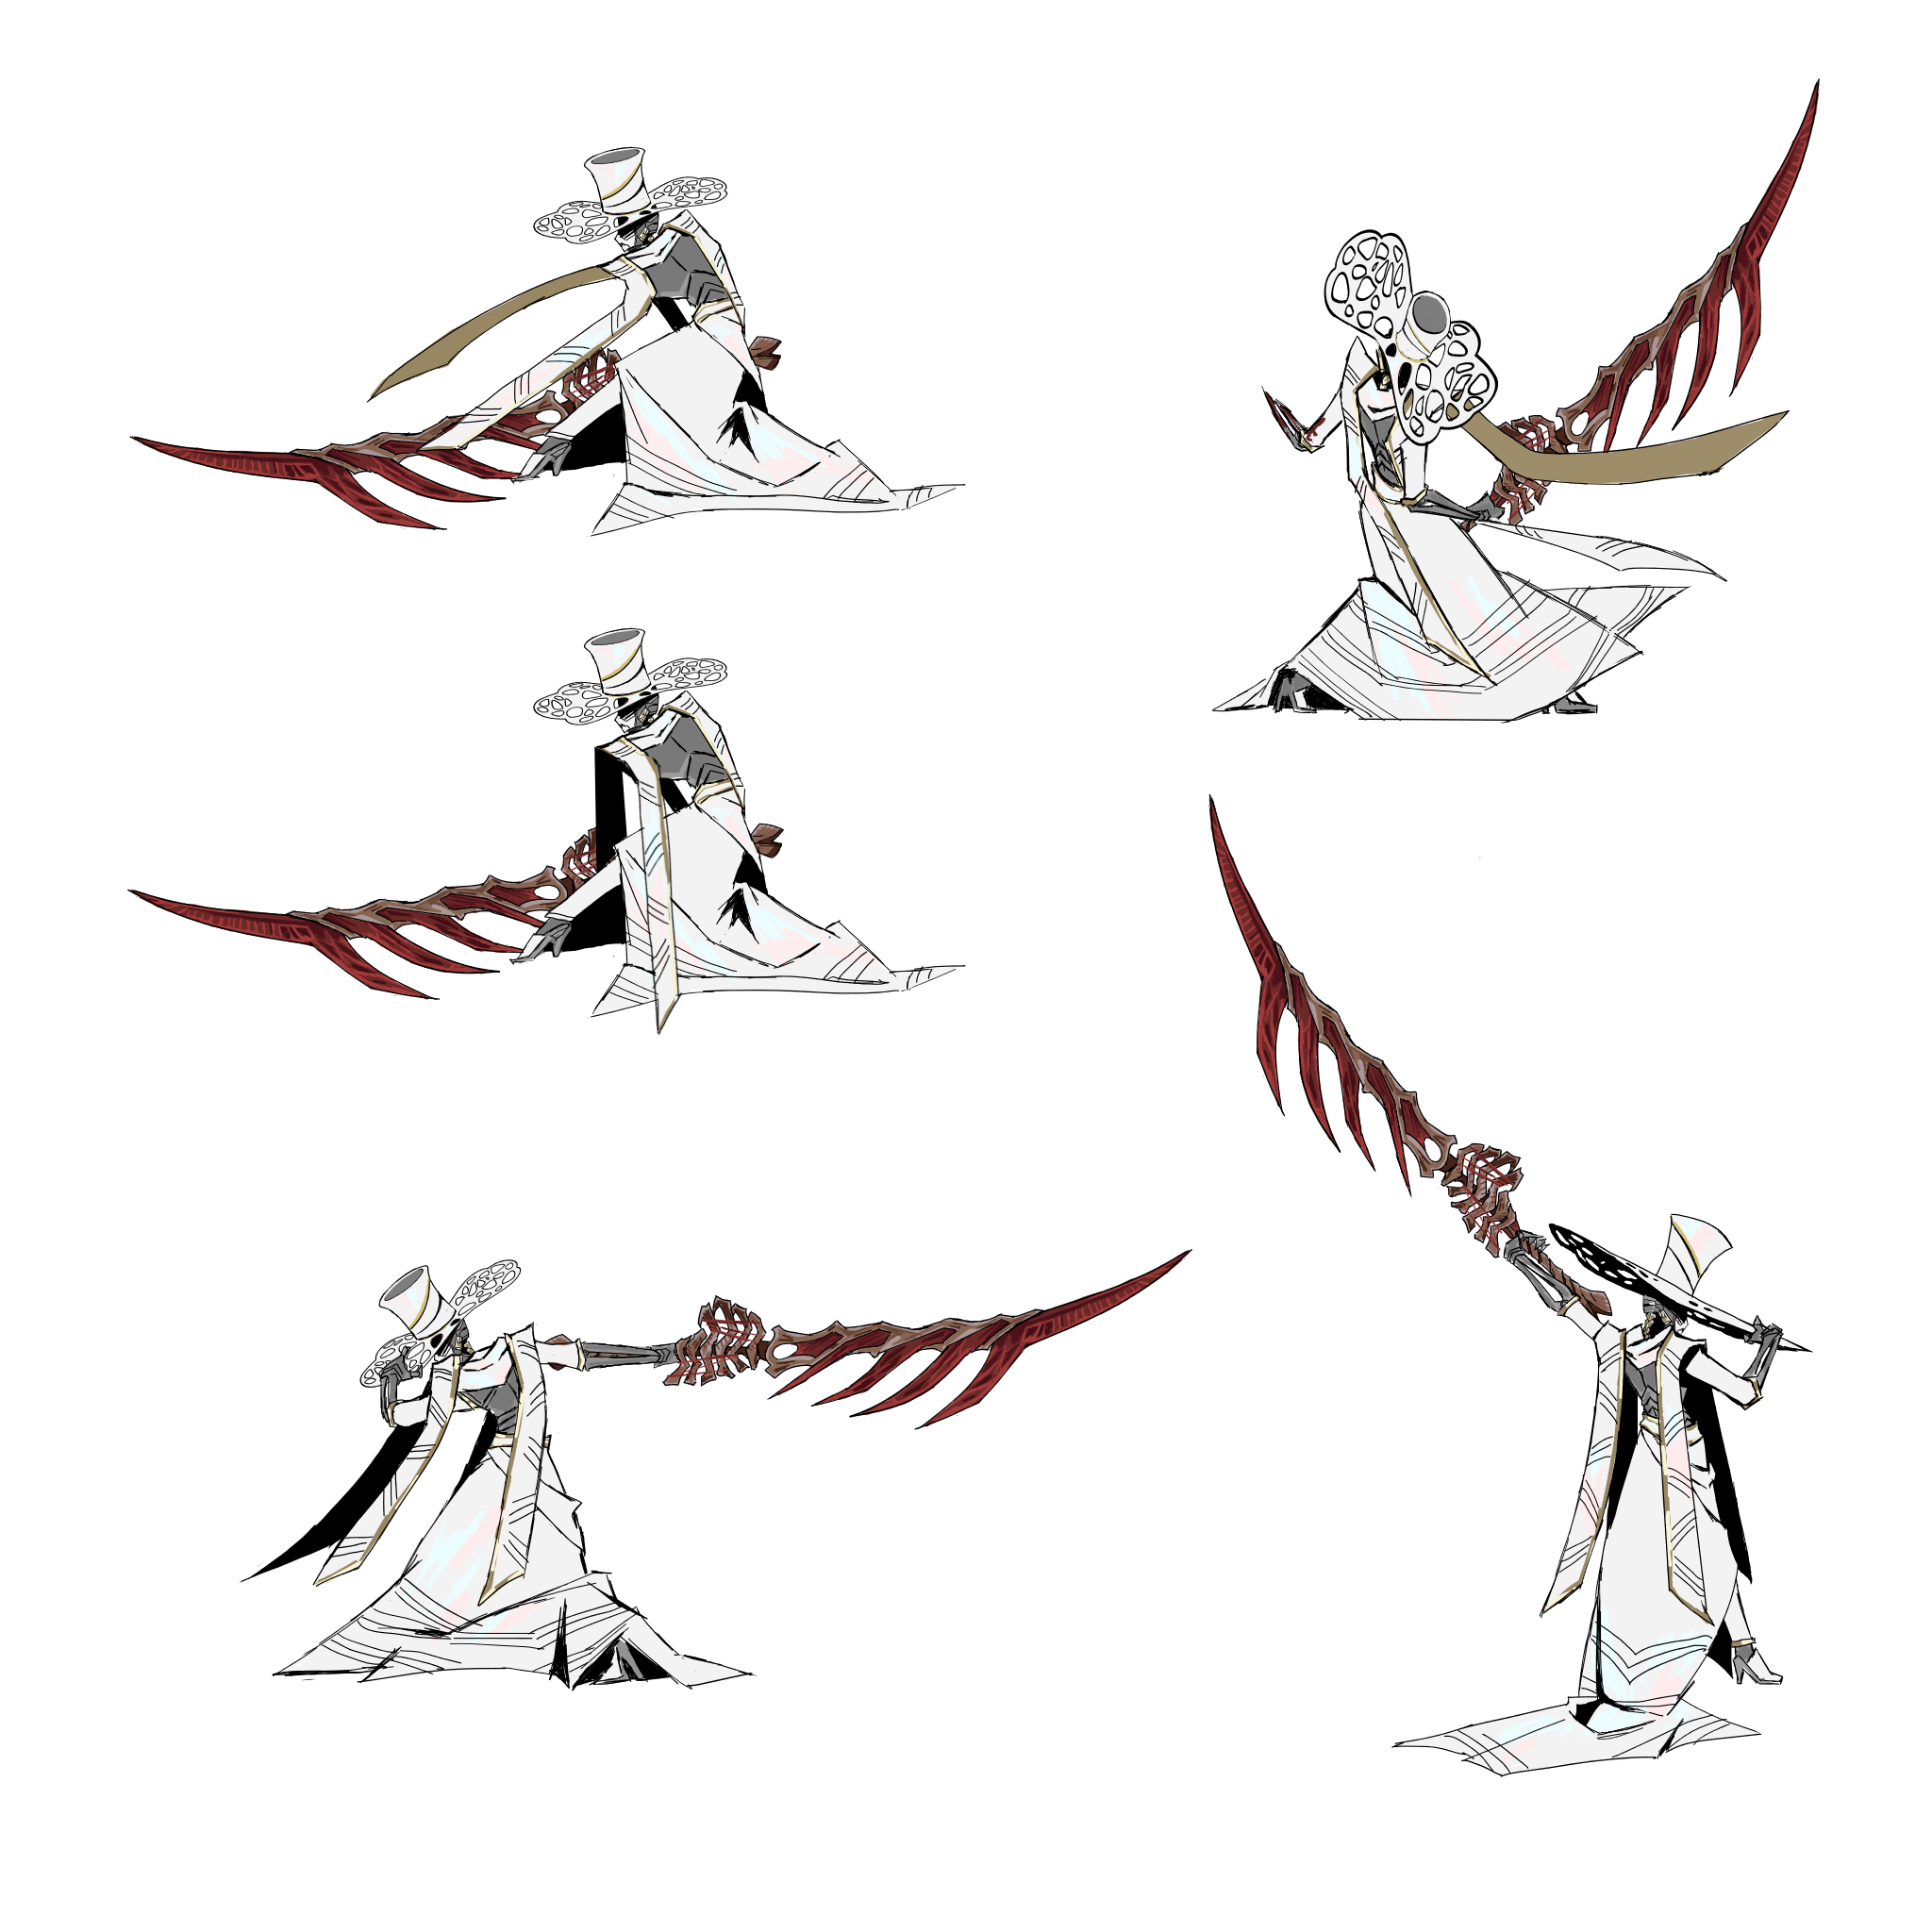
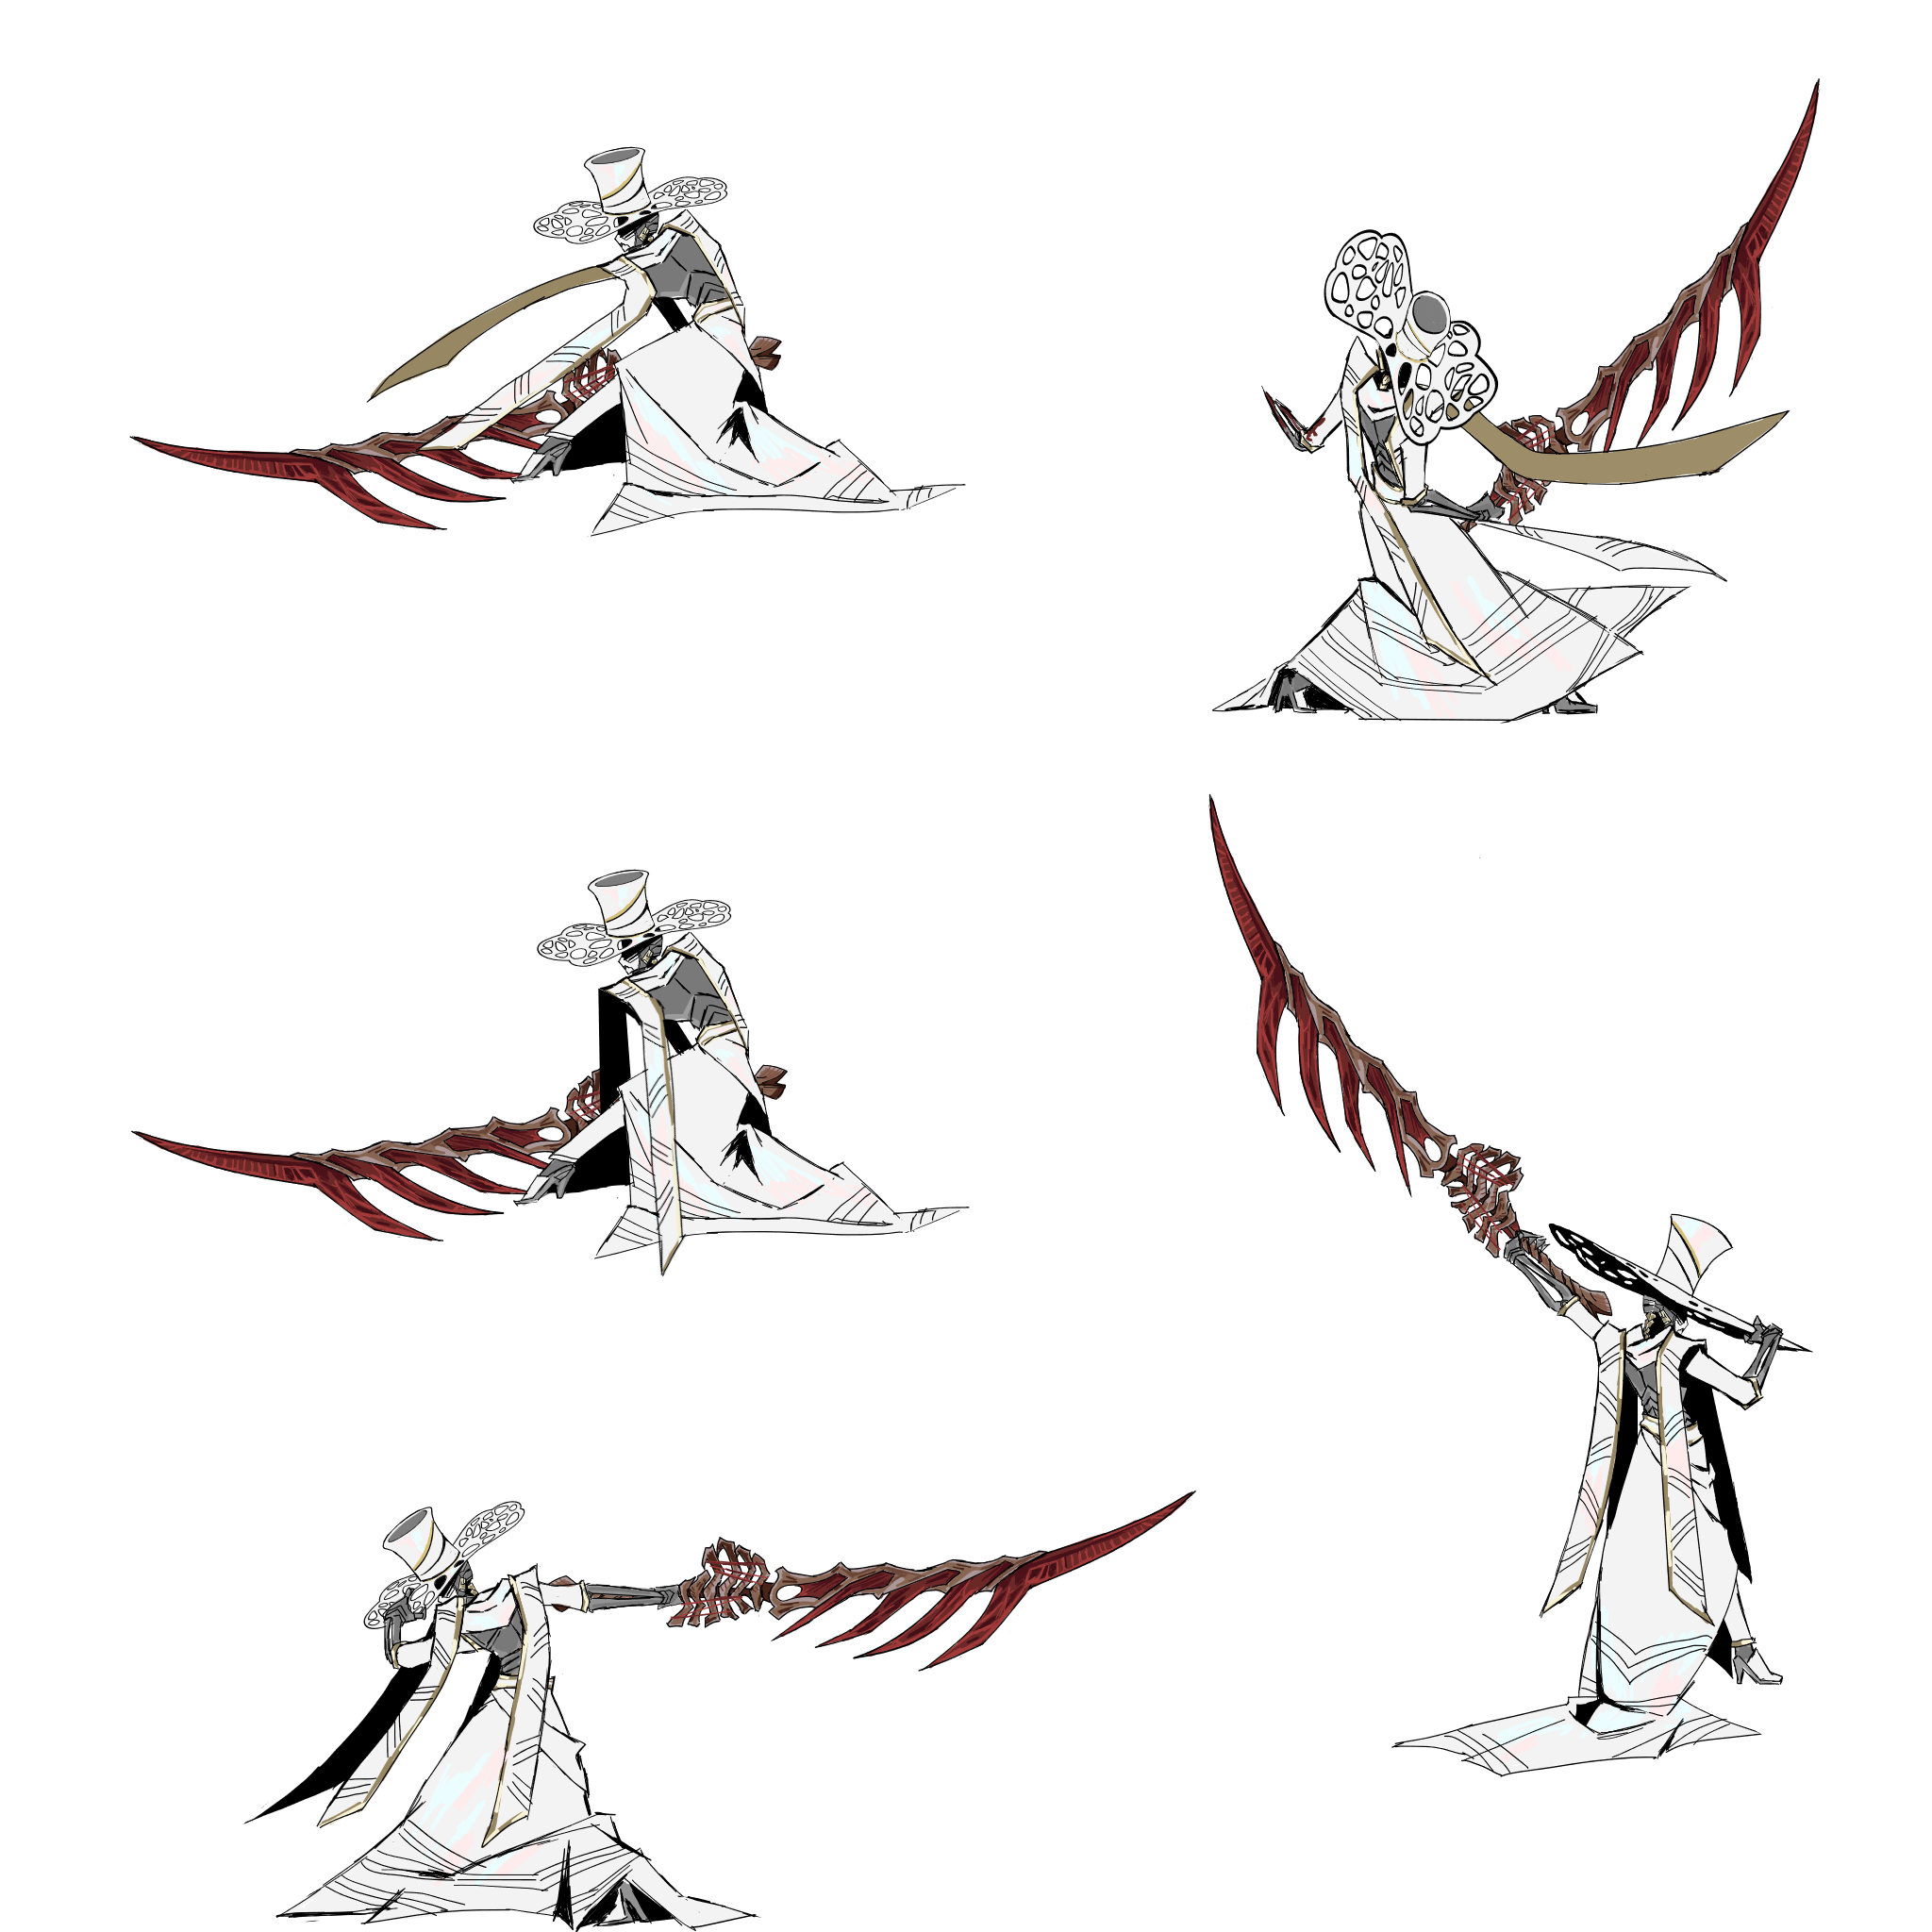
disposal kindafix

Changed region(s): [[0.0938, 0.3125, 0.5938, 1.0], [0.4375, 0.625, 0.4688, 0.6562], [0.4375, 0.5, 0.4688, 0.5312]]

diff --git a/characters.js b/characters.js
@@ -823,6 +823,77 @@ const CHARACTERS = {
           }
           break;
           
+        case 5: // Attack 3 setup - Random enemy positioning, attack all enemies
+          if (fighter.ultimateTimer <= 0) {
+            // Keep Valencina in center of battleground
+            const valencinaPos = this.clampToArena(width / 2, height - 100);
+            fighter.pos.x = valencinaPos.x;
+            fighter.pos.y = valencinaPos.y;
+            
+            // Position all enemies randomly around the center for multi-target attack
+            targetEnemies.forEach((enemy, index) => {
+              if (enemy) {
+                // Randomly position enemy on left or right side within attack range
+                const randomSide = Math.random() < 0.5 ? -1 : 1; // -1 for left, 1 for right
+                const enemyTargetX = fighter.pos.x + (randomSide * (80 + index * 20)); // Spread enemies out
+                const enemyPos = this.clampToArena(enemyTargetX, fighter.pos.y);
+                enemy.pos.x = enemyPos.x;
+                enemy.pos.y = enemyPos.y;
+              }
+            });
+            
+            // Make Valencina face the first enemy (or center if no enemies)
+            if (targetEnemies.length > 0 && targetEnemies[0]) {
+              fighter.facing = targetEnemies[0].pos.x > fighter.pos.x ? 1 : -1;
+            }
+            
+            // Halt all momentum/velocity on teleport for all fighters
+            fighter.vel.x = 0;
+            fighter.vel.y = 0;
+            targetEnemies.forEach(enemy => {
+              if (enemy) {
+                enemy.vel.x = 0;
+                enemy.vel.y = 0;
+              }
+            });
+            
+            fighter.ultimatePhase = 6;
+            fighter.ultimateAttackFrame = 0;
+            fighter.ultimateAttackTimer = 0.1;
+            fighter.currentSprite = 's3f2';
+          }
+          break;
+          
+        case 6: // Attack 3 sequence: s3f2 - attack all enemies
+          fighter.ultimateAttackTimer -= dt;
+          
+          // Valencina stays in center - no position adjustment needed
+          
+          if (fighter.ultimateAttackTimer <= 0) {
+            fighter.ultimateAttackFrame++;
+            
+            switch (fighter.ultimateAttackFrame) {
+              case 1:
+                fighter.currentSprite = 's3f2';
+                fighter.ultimateAttackTimer = 0.1;
+                // Deal damage to ALL enemies
+                targetEnemies.forEach(enemy => {
+                  if (enemy) {
+                    this.dealUltimateDamage(fighter, enemy, fighter.baseDamage, false, 3);
+                  }
+                });
+                fighter.spawnSlashEffect('s1s4', { x: 0, y: -10 });
+                break;
+              case 2:
+                // End attack sequence
+                fighter.ultimatePhase = 7;
+                fighter.ultimateTimer = 0.1;
+                fighter.currentSprite = 's3f2'; // Hold last attack sprite
+                break;
+            }
+          }
+          break;
+          
         case 7: // Attack 4 setup - teleport all enemies to center
           if (fighter.ultimateTimer <= 0) {
             // Reset movement restriction for attacks 4-5 for all enemies